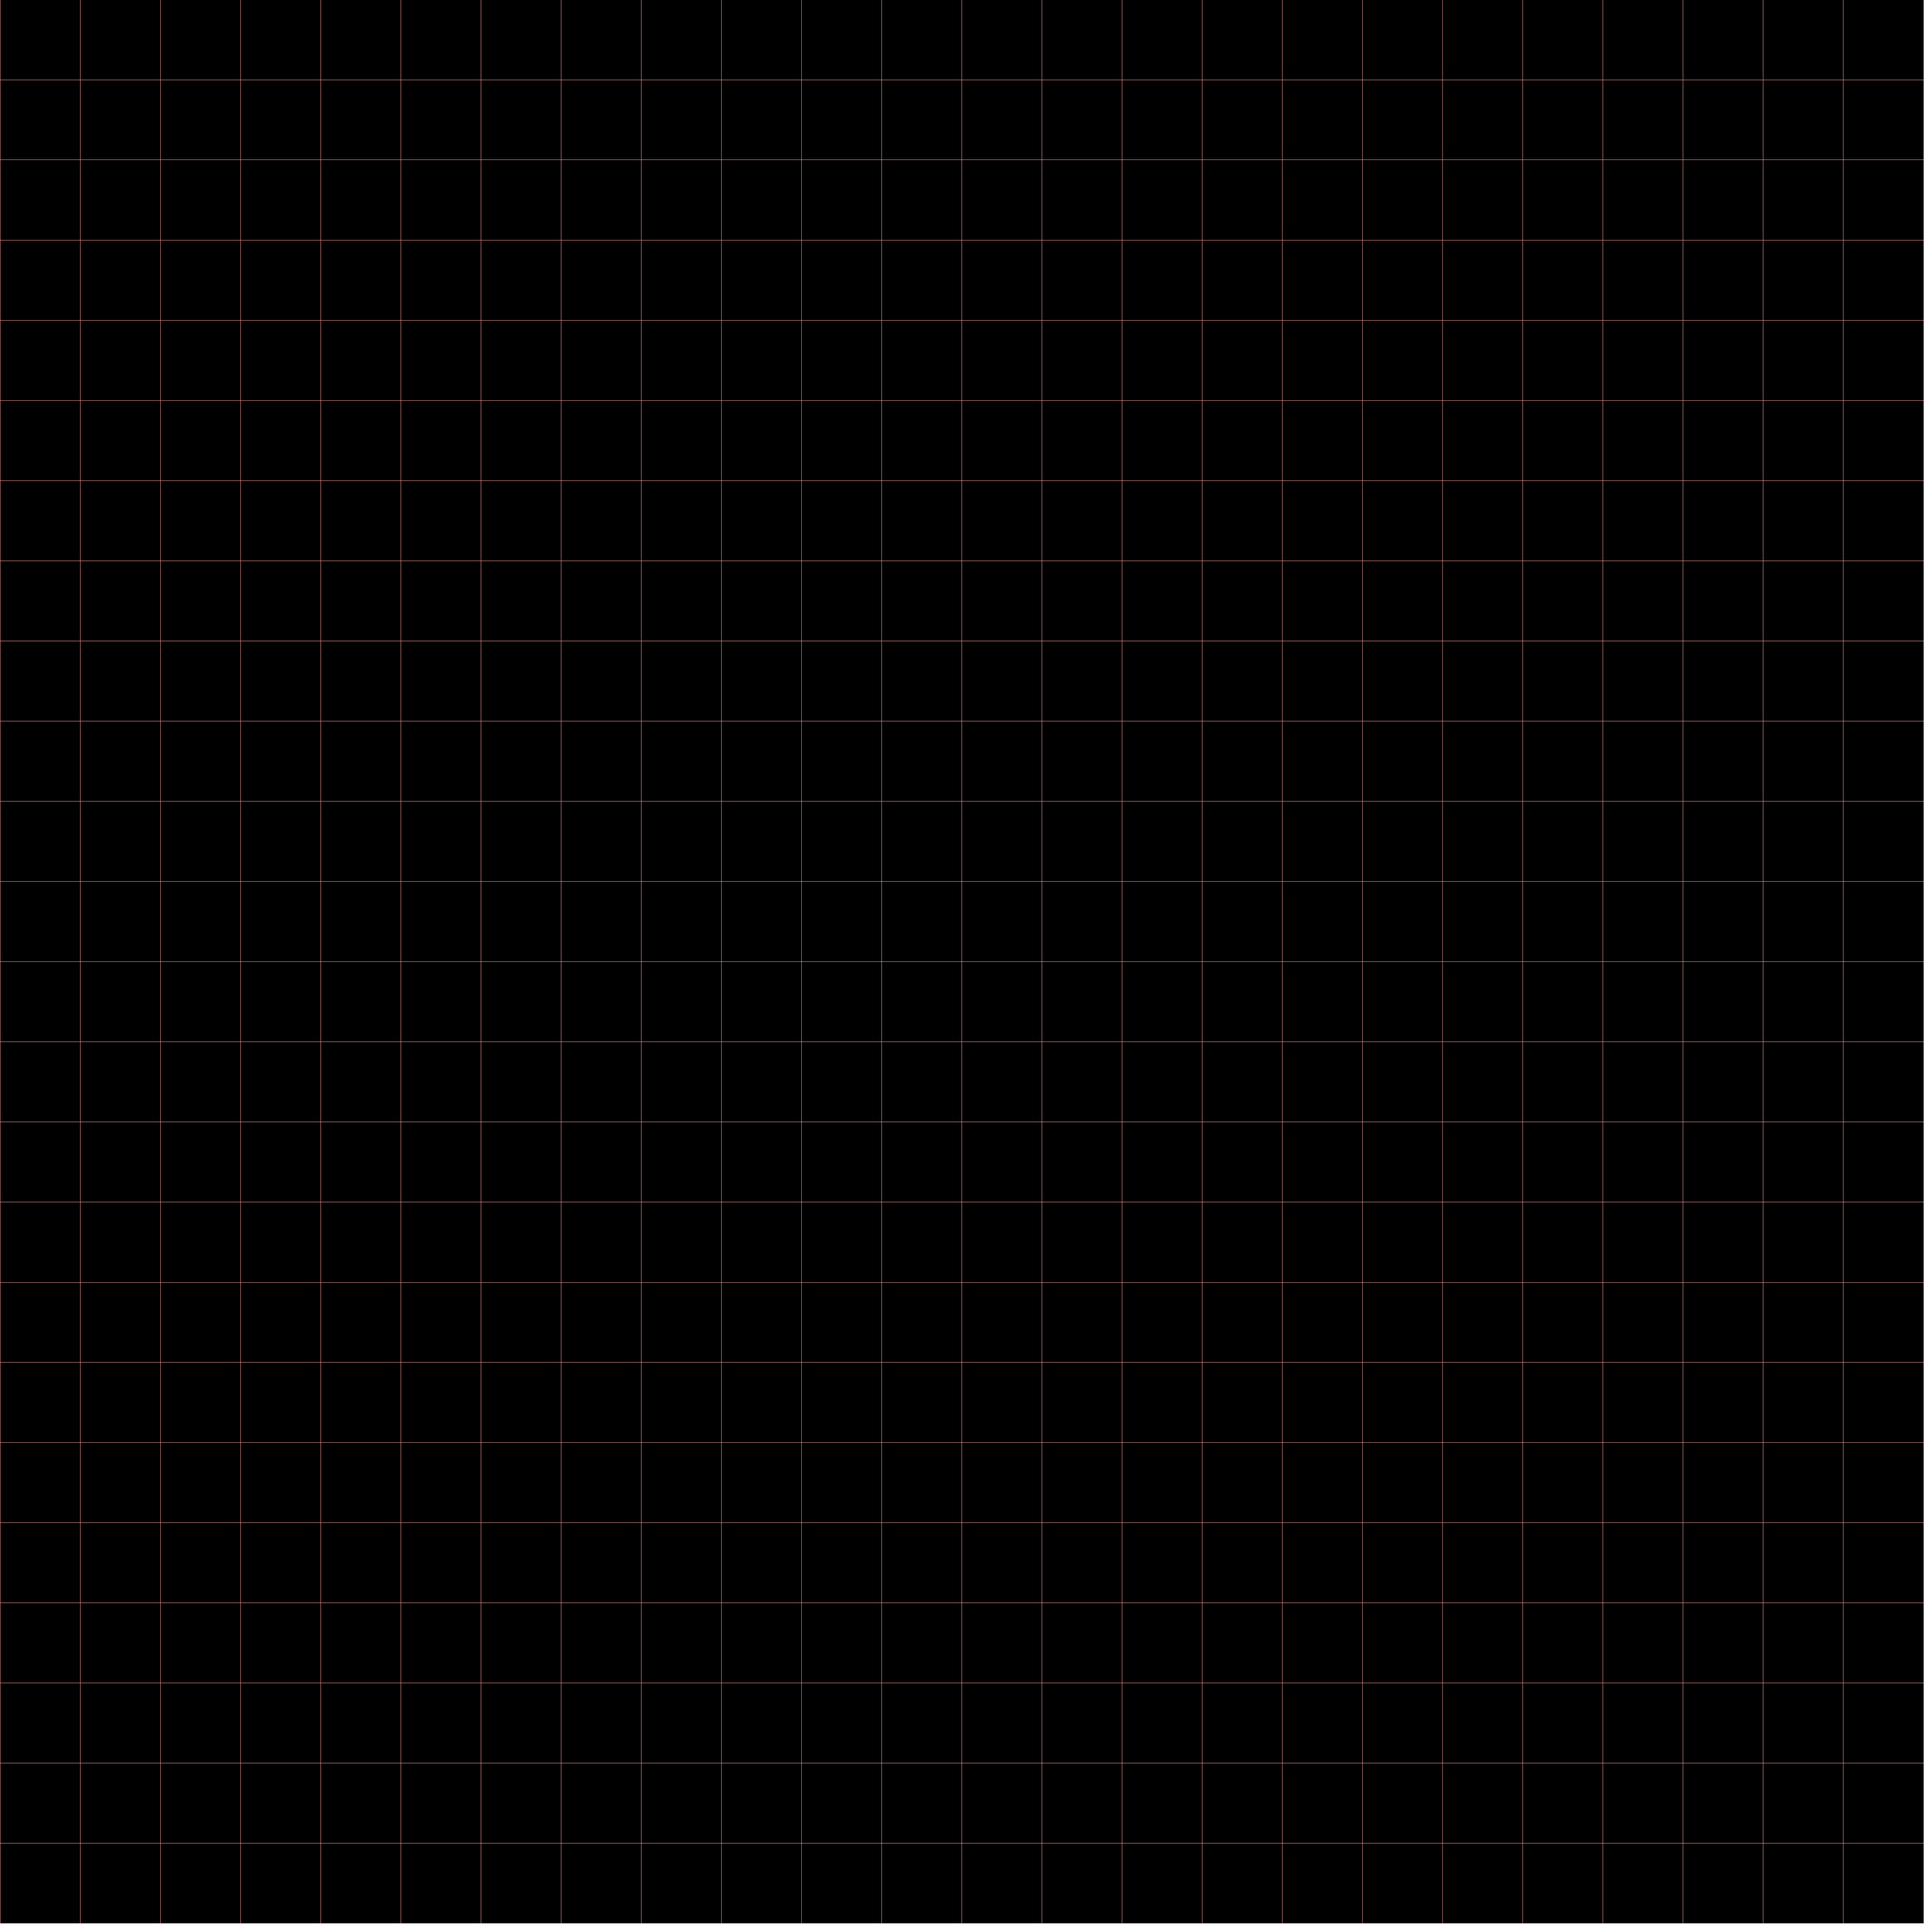
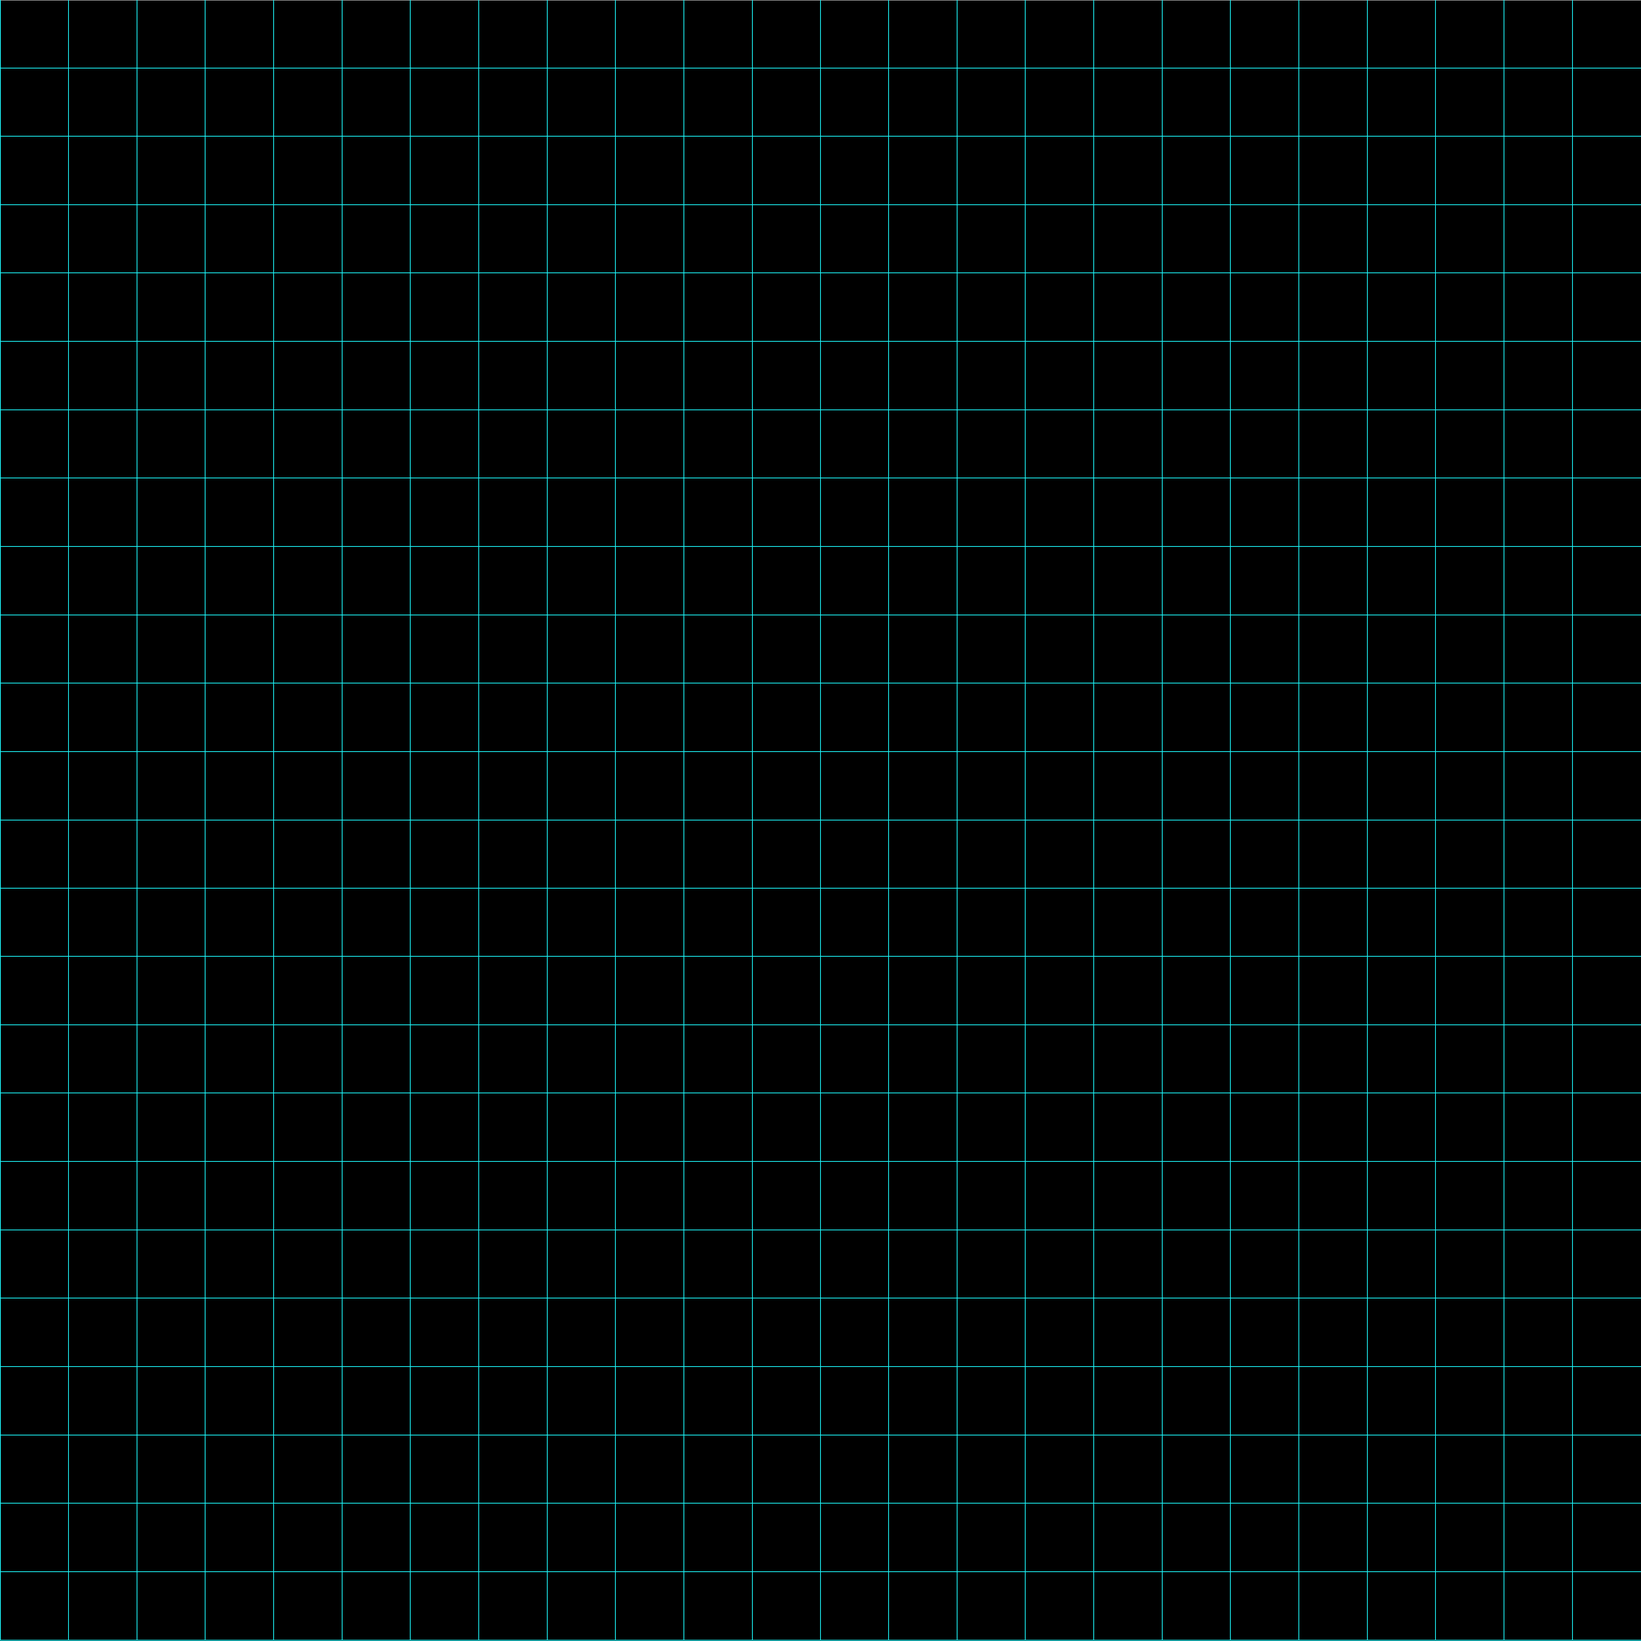
Vaporwave scene is now neon blue

diff --git a/components/vaporwave.tsx b/components/vaporwave.tsx
@@ -88,7 +88,7 @@ const VaporWave = () => {
     gui.addColor(ambientLight, "color").name("AmbientLight color");
 
     const spotlight = new THREE.SpotLight(
-      "#d53c3d",
+      "#1CEFF2",
       40,
       25,
       Math.PI * 0.1,
@@ -102,7 +102,7 @@ const VaporWave = () => {
     scene.add(spotlight.target);
 
     const spotlight2 = new THREE.SpotLight(
-      "#d53c3d",
+      "#1CEFF2",
       40,
       25,
       Math.PI * 0.1,
@@ -229,7 +229,7 @@ const VaporWave = () => {
     effectComposer.addPass(renderPass);
 
     const rgbShiftPass = new ShaderPass(RGBShiftShader);
-    rgbShiftPass.uniforms["amount"].value = 0.001;
+    rgbShiftPass.uniforms["amount"].value = 0.00361;
     gui
       .add(rgbShiftPass.uniforms["amount"], "value")
       .min(0)
